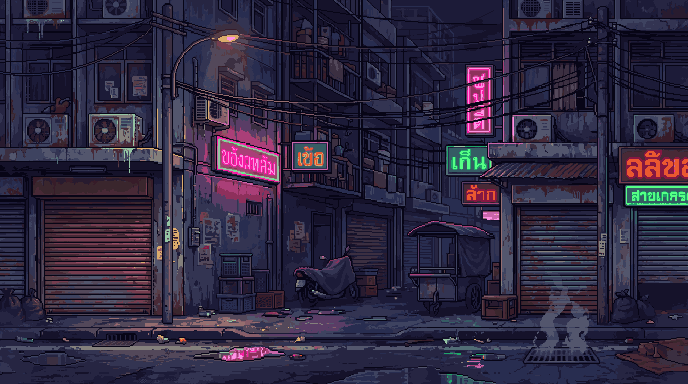
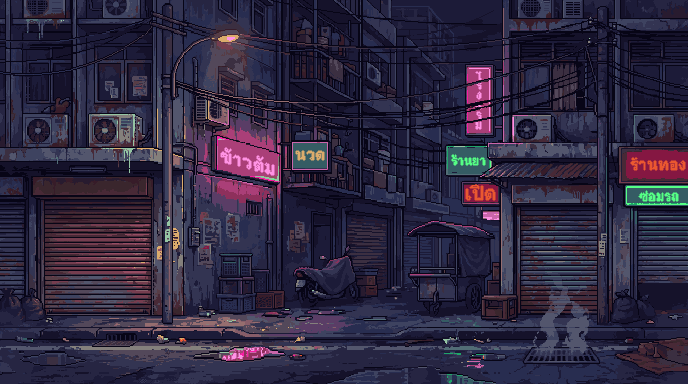
Alley stage: real Thai words on the neon signs, tiled without mirroring so they never read backwards
Claude-Session: https://claude.ai/code/session_01PSBtvsuZFS3pknb8ULkNKy

diff --git a/web/game.js b/web/game.js
@@ -1501,8 +1501,8 @@
     for (let i = first; i <= first + Math.ceil(W / tw) + 1; i++) {
       const x = Math.round(i * tw - camX);
       ctx.save();
-      if (i % 2 !== 0) {
-        // mirror every other tile so the seams match
+      if (i % 2 !== 0 && !(M.bgNoMirror || []).includes(state.bg)) {
+        // mirror every other tile so the seams match (not on stages with writing, which would read backwards)
         ctx.translate(x + tw, 0);
         ctx.scale(-1, 1);
         ctx.drawImage(img, 0, 0, tw, H);

diff --git a/web/sw.js b/web/sw.js
@@ -1,7 +1,7 @@
 // Generated by tools/build_sw.py from tools/sw_template.js. Do not edit web/sw.js by hand.
 // Offline play: every game file is cached on install. Pages are fetched fresh when online
 // (falling back to the cache), everything else is served from the cache first.
-const VERSION = "4cefbb96ca";
+const VERSION = "9305c4819a";
 const CACHE = "komfaek-" + VERSION;
 const FONT_CACHE = "komfaek-fonts";
 const FILES = [

diff --git a/web/assets/manifest.js b/web/assets/manifest.js
@@ -9,6 +9,9 @@ window.MANIFEST = {
   "assets/bg_ruins.png",
   "assets/bg_village.png"
  ],
+ "bgNoMirror": [
+  "assets/bg_alley.png"
+ ],
  "vfx": {
   "bird": "assets/vfx_bird.png",
   "naga": "assets/vfx_naga.png",

diff --git a/tools/build_manifest.py b/tools/build_manifest.py
@@ -31,6 +31,8 @@ manifest = {
     "background": "assets/bg_village.png",
     # one of these is picked at random for every match
     "backgrounds": [f"assets/{n}" for n in sorted(os.listdir(A)) if n.startswith("bg_") and n.endswith(".png")],
+    # stages with readable signs: tile them straight, never mirrored
+    "bgNoMirror": ["assets/bg_alley.png"],
     "vfx": {**{k: f"assets/vfx_{k}.png" for k in VFX},
             # per-skill icons from tools/make_icons.py: ic_<character>_<skill>
             **{"ic_" + n[:-4]: f"assets/icons/{n}" for n in sorted(os.listdir(f"{A}/icons")) if n.endswith(".png")}},
